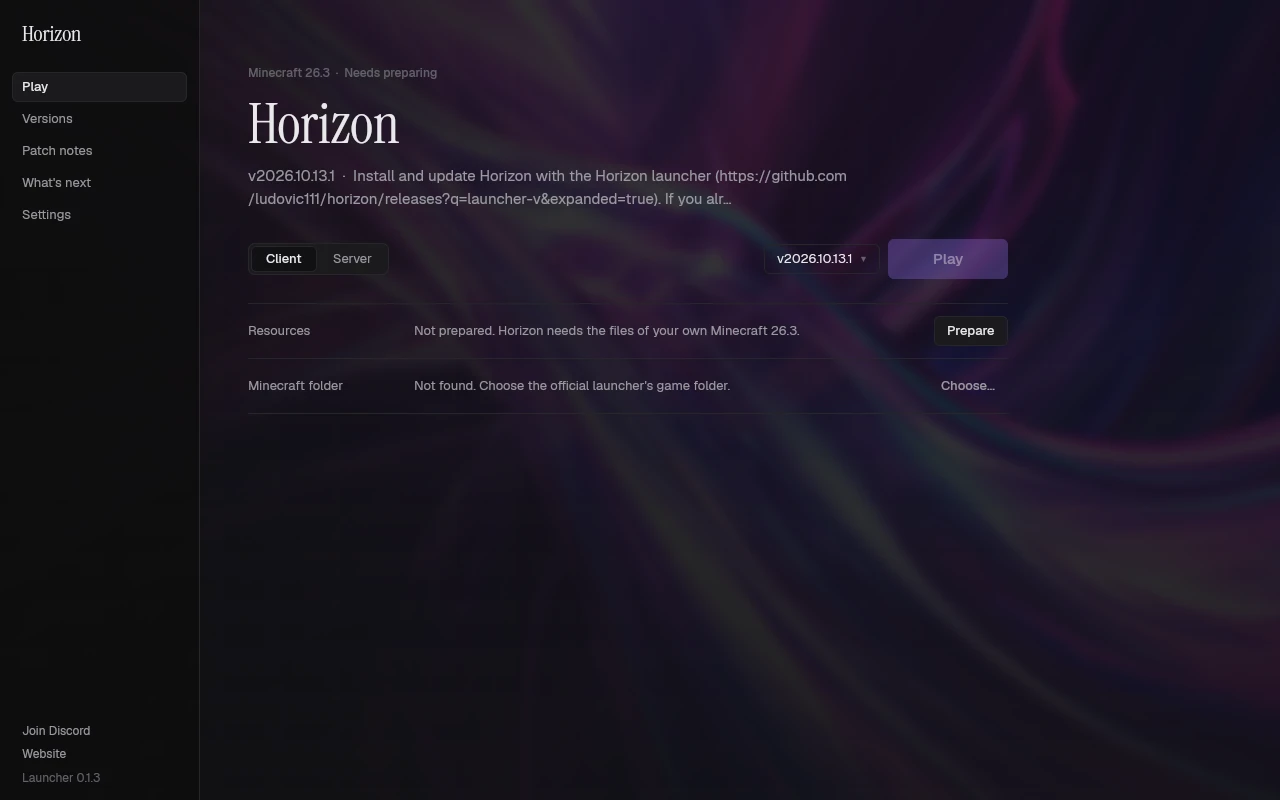
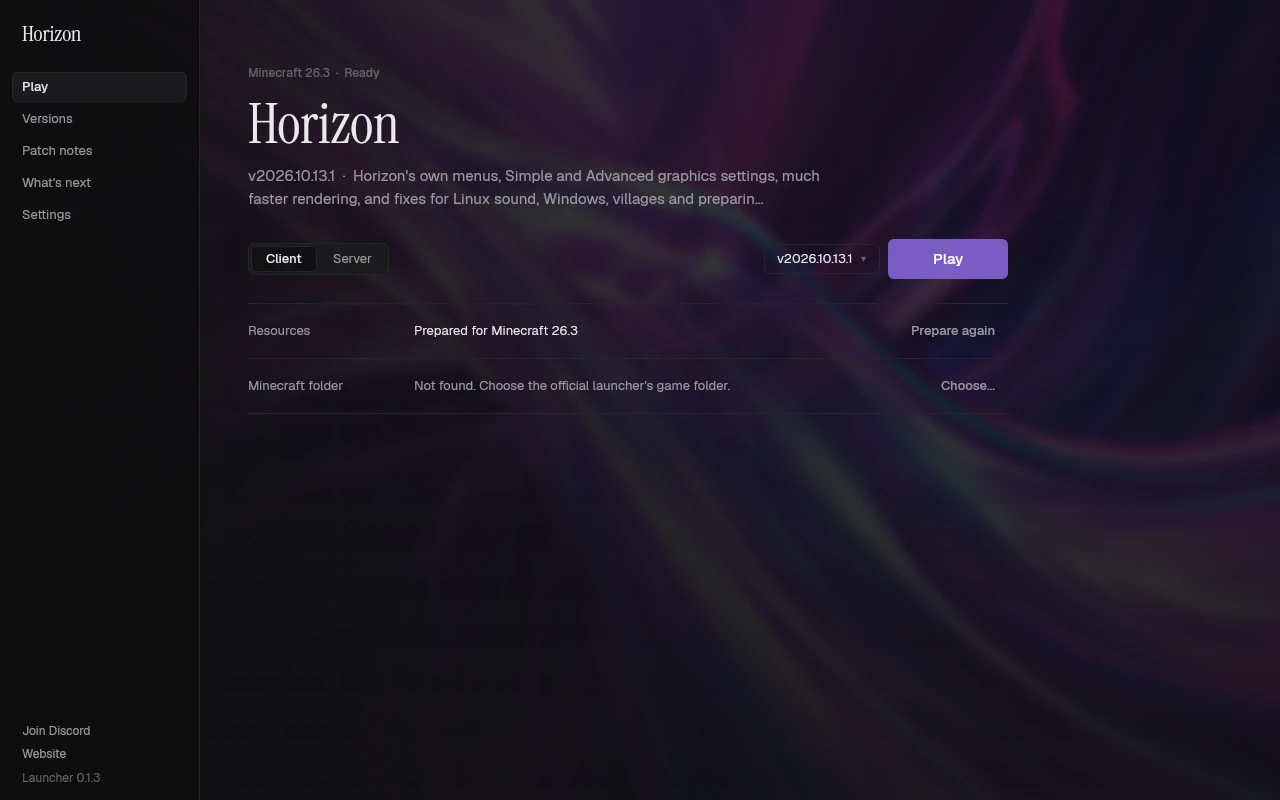
README: retake the launcher's Play page, prepared and ready

diff --git a/README.md b/README.md
@@ -47,7 +47,7 @@ Horizon is downloaded only through **the Horizon launcher**: get it from [playho
 
 <table>
   <tr>
-    <td width="50%"><img src="docs/media/launcher-play.webp" alt="The launcher's Play page: version v2026.10.13.1, Client and Server, the Play button, and the resources and Minecraft folder rows"></td>
+    <td width="50%"><img src="docs/media/launcher-play.webp" alt="The launcher's Play page: v2026.10.13.1 ready to play, its summary, Client and Server, the Play button and prepared resources"></td>
     <td width="50%"><img src="docs/media/launcher-patch-notes.webp" alt="The launcher's Patch notes page, showing the notes of Horizon 2026.10.13.1"></td>
   </tr>
 </table>
